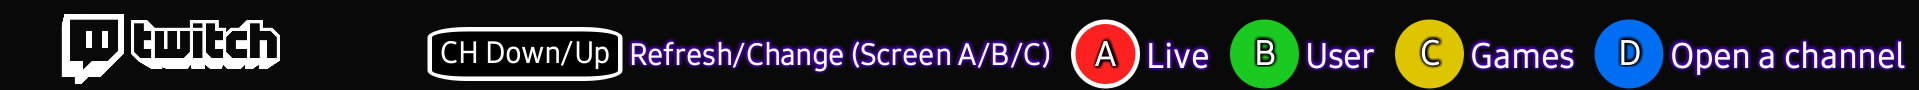
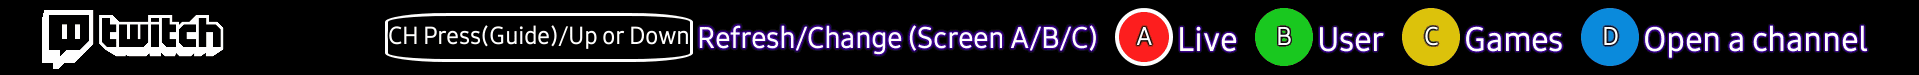
Also use Info key as Guide key + update readme
some remotes may not have a guide key

diff --git a/app/scenes/SceneBrowser.js b/app/scenes/SceneBrowser.js
@@ -109,6 +109,7 @@ tizen.tvinputdevice.registerKey("ColorF1Green");
 tizen.tvinputdevice.registerKey("ColorF2Yellow");
 tizen.tvinputdevice.registerKey("ColorF3Blue");
 tizen.tvinputdevice.registerKey("Guide");
+tizen.tvinputdevice.registerKey("Info");
 var ScrollHelper = {
     documentVerticalScrollPosition: function() {
         if (self.pageYOffset) return self.pageYOffset; // Firefox, Chrome, Opera, Safari.
@@ -1352,6 +1353,7 @@ SceneSceneBrowser.prototype.handleKeyDown = function(e) {
                 SceneSceneBrowser.ime2.blur();
             }
             break;
+        case TvKeyCode.KEY_INFO:
         case TvKeyCode.KEY_CHANNELGUIDE:
             if (SceneSceneBrowser.mode != SceneSceneBrowser.MODE_TOOLS && SceneSceneBrowser.mode != SceneSceneBrowser.MODE_GO) {
                 SceneSceneBrowser.refreshClick = true;

diff --git a/locales/de/language.js b/locales/de/language.js
@@ -4,7 +4,7 @@ var STR_GAMES = "Spiele";
 var STR_OPEN = "Kanal öffnen";
 var STR_OPEN_CHANNEL = "Open a channel";
 var STR_REFRESH = "Aktualisieren";
-var STR_CH_UPDOWN = "Kanal Drücken / oben oder unten";
+var STR_CH_UPDOWN = "CH Press(Guide)/Up or Down";
 var STR_UPDOWN = "Aktualisieren / Ändern (Bildschirm A/B/C)";
 
 var STR_PLACEHOLDER_OPEN = "Kanalnamen eingeben...";

diff --git a/locales/es/language.js b/locales/es/language.js
@@ -4,7 +4,7 @@ var STR_GAMES = "Juegos";
 var STR_OPEN = "Abrir";
 var STR_OPEN_CHANNEL = "Open a channel";
 var STR_REFRESH = "Refrescar";
-var STR_CH_UPDOWN = "CH Presione / Arriba o Abajo";
+var STR_CH_UPDOWN = "CH Presione (Guia) / Arriba o Abajo";
 var STR_UPDOWN = "Actualizar / Cambiar (pantalla A/B/C)";
 
 var STR_PLACEHOLDER_OPEN = "Introduce el nombre de un canal...";

diff --git a/locales/uk/language.js b/locales/uk/language.js
@@ -4,7 +4,7 @@ var STR_GAMES = "Ігри";
 var STR_OPEN = "Відкрити";
 var STR_OPEN_CHANNEL = "Open a channel";
 var STR_REFRESH = "Оновити";
-var STR_CH_UPDOWN = "CH Press/Up or Down";
+var STR_CH_UPDOWN = "CH Press(Guide)/Up or Down";
 var STR_UPDOWN = "Refresh/Change (Screen A/B/C)";
 
 var STR_PLACEHOLDER_OPEN = "Введіть назву каналу...";

diff --git a/locales/ru/language.js b/locales/ru/language.js
@@ -4,7 +4,7 @@ var STR_GAMES = "Игры";
 var STR_OPEN = "Открыть";
 var STR_OPEN_CHANNEL = "Open a channel";
 var STR_REFRESH = "Обновить";
-var STR_CH_UPDOWN = "CH Press/Up or Down";
+var STR_CH_UPDOWN = "CH Press(Guide)/Up or Down";
 var STR_UPDOWN = "Refresh/Change (Screen A/B/C)";
 
 var STR_PLACEHOLDER_OPEN = "Введите имя канала...";

diff --git a/locales/pt/language.js b/locales/pt/language.js
@@ -4,7 +4,7 @@ var STR_GAMES = "Jogos";
 var STR_OPEN = "Abrir";
 var STR_OPEN_CHANNEL = "Abrir um canal";
 var STR_REFRESH = "Atualizar";
-var STR_CH_UPDOWN = "CH Pressione/Cima ou abaixo";
+var STR_CH_UPDOWN = "CH Pressione (Guia)/Cima ou abaixo";
 var STR_UPDOWN = "Atualizar/Trocar (Tela A/B/C)";
 
 var STR_PLACEHOLDER_OPEN = "Insira o nome do canal";

diff --git a/locales/it/language.js b/locales/it/language.js
@@ -4,7 +4,7 @@ var STR_GAMES = "Giochi";
 var STR_OPEN = "Apri";
 var STR_OPEN_CHANNEL = "Open a channel";
 var STR_REFRESH = "Aggiorna";
-var STR_CH_UPDOWN = "CH Press/Up or Down";
+var STR_CH_UPDOWN = "CH Press(Guide)/Up or Down";
 var STR_UPDOWN = "Refresh/Change (Screen A/B/C)";
 
 var STR_PLACEHOLDER_OPEN = "Inserire il nome del canale....";

diff --git a/locales/pl/language.js b/locales/pl/language.js
@@ -4,7 +4,7 @@ var STR_GAMES = "Gry";
 var STR_OPEN = "Otwórz";
 var STR_OPEN_CHANNEL = "Open a channel";
 var STR_REFRESH = "Odśwież";
-var STR_CH_UPDOWN = "CH Press/Up or Down";
+var STR_CH_UPDOWN = "CH Press(Guide)/Up or Down";
 var STR_UPDOWN = "Refresh/Change (Screen A/B/C)";
 
 var STR_PLACEHOLDER_OPEN = "Wpisz nazwę kanału...";

diff --git a/app/js/language.js b/app/js/language.js
@@ -4,7 +4,7 @@ var STR_GAMES = "Games";
 var STR_OPEN = "Open";
 var STR_OPEN_CHANNEL = "Open a channel";
 var STR_REFRESH = "Refresh";
-var STR_CH_UPDOWN = "CH Press/Up or Down";
+var STR_CH_UPDOWN = "CH Press(Guide)/Up or Down";
 var STR_UPDOWN = "Refresh/Change (Screen A/B/C)";
 
 var STR_PLACEHOLDER_OPEN = "Enter channel name...";

diff --git a/locales/en/language.js b/locales/en/language.js
@@ -4,7 +4,7 @@ var STR_GAMES = "Games";
 var STR_OPEN = "Open";
 var STR_OPEN_CHANNEL = "Open a channel";
 var STR_REFRESH = "Refresh";
-var STR_CH_UPDOWN = "CH Press/Up or Down";
+var STR_CH_UPDOWN = "CH Press(Guide)/Up or Down";
 var STR_UPDOWN = "Refresh/Change (Screen A/B/C)";
 
 var STR_PLACEHOLDER_OPEN = "Enter channel name...";

diff --git a/app/scenes/SceneChannel.js b/app/scenes/SceneChannel.js
@@ -395,6 +395,7 @@ SceneSceneChannel.prototype.handleKeyDown = function(e) {
         }
     } else {
         switch (e.keyCode) {
+            case TvKeyCode.KEY_INFO:
             case TvKeyCode.KEY_CHANNELGUIDE:
                 if (!SceneSceneChannel.isChatShown()) {
                     SceneSceneChannel.showChat();

diff --git a/README.md b/README.md
@@ -26,14 +26,14 @@ Controls
 ==============
 ![control](https://raw.githubusercontent.com/bhb27/smarttv-twitch/tizen/screenshot/controler.png)
 
-The Application is tested with the above remote, below are the controls and section explains
+The Application is tested with the above remotes (Any Samsung remote that has those same key/function must control the app even if the remote looks different)(The key **INFO** is also map on the app to do the **GUIDE** key function as some remotes may not have the **GUIDE** one), below are the controls and section explains.
 ## Top toolbar
 ![top_toolbar](https://raw.githubusercontent.com/bhb27/smarttv-twitch/tizen/screenshot/top_toolbar.png)
-* **CH Down/Up**: Down Refresh current Screen, Up change for next Screen A - B - C - A (after C  back to A)
-* **Live**: All TwitchTv live Channel
-* **User**: Setup yours user name (using 4 color buttons (color), after green or right) / Show user Live Followed Channels (using CH **UP** (Channel Up) if user is setup if not goes to Setup yours user name)
-* **Games**: All TwitchTv live Games
-* **Open a channel**: Open a channel by name
+* **CH Press (Guide)/Up or Down**: Press (Guide) Refresh current Screen (The key **info** is also map to to this function), Up change the Screen on the sequence A - B - C - A (if on C back to A), Down do the reverse C - B - A - C (if on A back to C)
+* **Live**: All [twitch.tv](https://www.twitch.tv) live Channel that is displayed on [twitch.tv as Popular](https://www.twitch.tv/directory/all)
+* **User** Two options: Setup your [twitch.tv](https://www.twitch.tv) username (using 4 color buttons (color), after green or right) / using CH **UP** (Channel Up) from live screen if user is set will show user [live following channels](https://www.twitch.tv/directory/following/live), [Hots from following channels](https://www.twitch.tv/directory/following/hosts) and [Live following games](https://www.twitch.tv/directory/following/games)
+* **Games**: All [twitch.tv live Games](https://www.twitch.tv/directory)
+* **Open a channel**: Open a channel by name if it is streaming live
 
 ## Action: Remote Key
 ### From Any Screen
@@ -43,7 +43,7 @@ The Application is tested with the above remote, below are the controls and sect
 * **To move between videos**: Directional pad (up/down/left/right)
 * **Open a video**: Select or Play/Pause
 * **Change Screen**: CH **UP or DOWN**
-* **Refresh Live Screen**: CH **PRESS** (Channel Press)
+* **Refresh Live Screen**: CH **PRESS** (on smart remote) or **GUIDE** or **INFO** (on normal remote) 
 * **Top left options (Live, User, Games and Open a channel)**: 4 color buttons (color), after Directional pad (up/down/left/right) for (red/yellow/blue/green)
 * **Close the app**: Return (click it twice under 3 seconds)
 
@@ -57,14 +57,14 @@ The Application is tested with the above remote, below are the controls and sect
 * **To move between videos/games**: Directional pad (up/down/left/right)
 * **Open a video/game**: Select or Play/Pause
 * **Change Screen**: CH **UP or DOWN**
-* **Refresh User Followed Screen**: CH **PRESS** (Channel Press)
+* **Refresh User Followed Screen**: CH **PRESS** (on smart remote) or **GUIDE** or **INFO** (on normal remote) 
 * **Top left options (Live, User, Games and Open a channel)**: 4 color buttons (color), after Directional pad (up/down/left/right) for (red/yellow/blue/green)
 * **Return to Live Screen**: Return
 
 ### [Games category Screen (select a game category, access using Access using CH UP (Channel Up) (from User Followed Screen)](https://raw.githubusercontent.com/bhb27/smarttv-twitch/tizen/screenshot/Games.png)
 * **To move between games**: Directional pad (up/down/left/right)
 * **Open a game category**: Select or Play/Pause
-* **Refresh (Games category Screen**: CH **PRESS** (Channel Press)
+* **Refresh (Games category Screen**: CH **PRESS** (on smart remote) or **GUIDE** or **INFO** (on normal remote) 
 * **Top left options (Channels, Games, Open (to open a channel by name) and Refresh current screen)**: 4 color buttons (color) after Directional pad (up/down/left/right) for (red/yellow/blue/green)
 * **Return to Followed Channels/Games Screen**: Return
 * **Change Screen**: CH **UP or DOWN**
@@ -72,7 +72,7 @@ The Application is tested with the above remote, below are the controls and sect
 ### [A Game Screen (Select a video of a game category, access using Access using Select or Play/Pause (from Games category Screen)](https://raw.githubusercontent.com/bhb27/smarttv-twitch/tizen/screenshot/A_Game.png)
 * **To move between videos**: Directional pad (up/down/left/right)
 * **Open a video**: Select or Play/Pause
-* **Refresh (From "A Game" screen)**: CH **PRESS** (Channel Press)
+* **Refresh (From "A Game" screen)**: CH **PRESS** (on smart remote) or **GUIDE** or **INFO** (on normal remote) 
 * **Top left options (Channels, Games, Open (to open a channel by name) and Refresh current screen)**: 4 color buttons (color) after Directional pad (up/down/left/right) for (red/yellow/blue/green)
 * **Return to Games category Screen**: Return
 * **Change Screen**: CH **UP or DOWN**
@@ -85,7 +85,7 @@ The Application is tested with the above remote, below are the controls and sect
 * **Show info panel(if chat is not showing)**: Directional pad (up/down/left/right) or Press **Select** once
 * **Dismiss info panel(if info panel it's showing)**: Return or wait 5 seconds it will auto dismiss
 * **Change video quality (if info panel is showing it will be on bottom right corner)**: Directional pad (up/down) to change after Press **Select** to confirm
-* **Show or hide the Chat**: CH **PRESS**
+* **Show or hide the Chat**: CH **PRESS** (on smart remote) or **GUIDE** or **INFO** (on normal remote) 
 * **Change Chat position (if chat it's showing)**: CH **UP or DOWN**
 * **Change Chat size (if chat it's showing and info panel is not)**: Directional pad (up/down)
 * **Change Chat background brightness (if chat it's showing)**: Directional pad (left/right)
